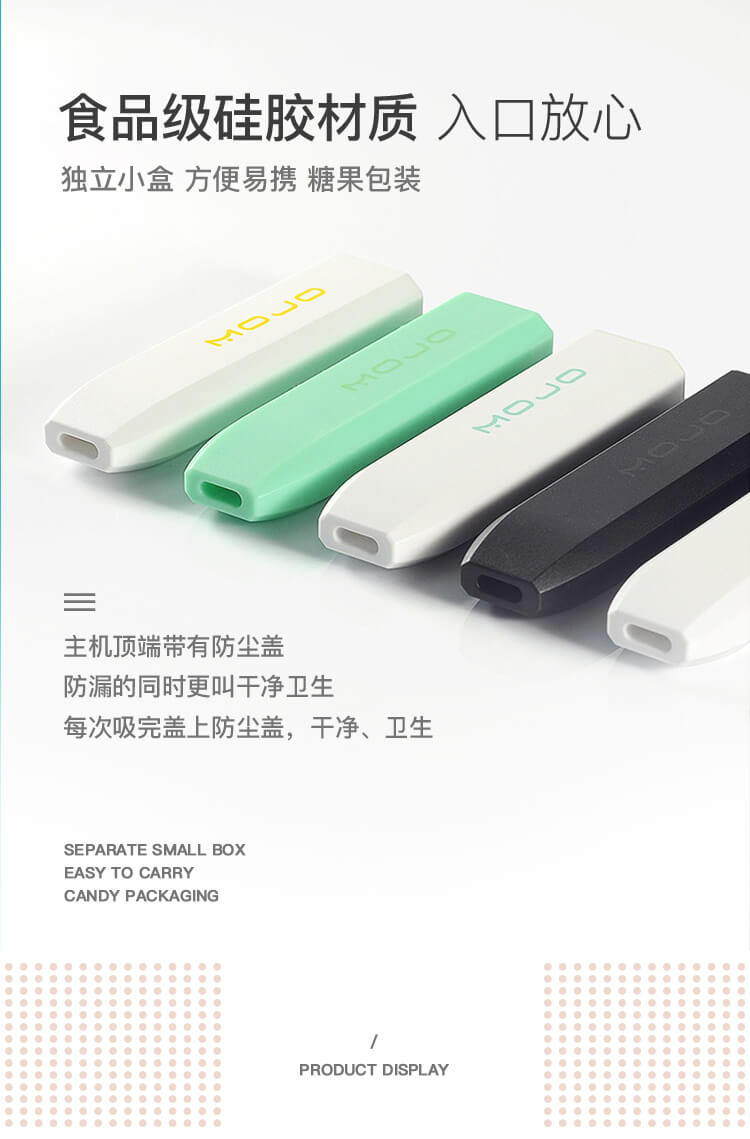
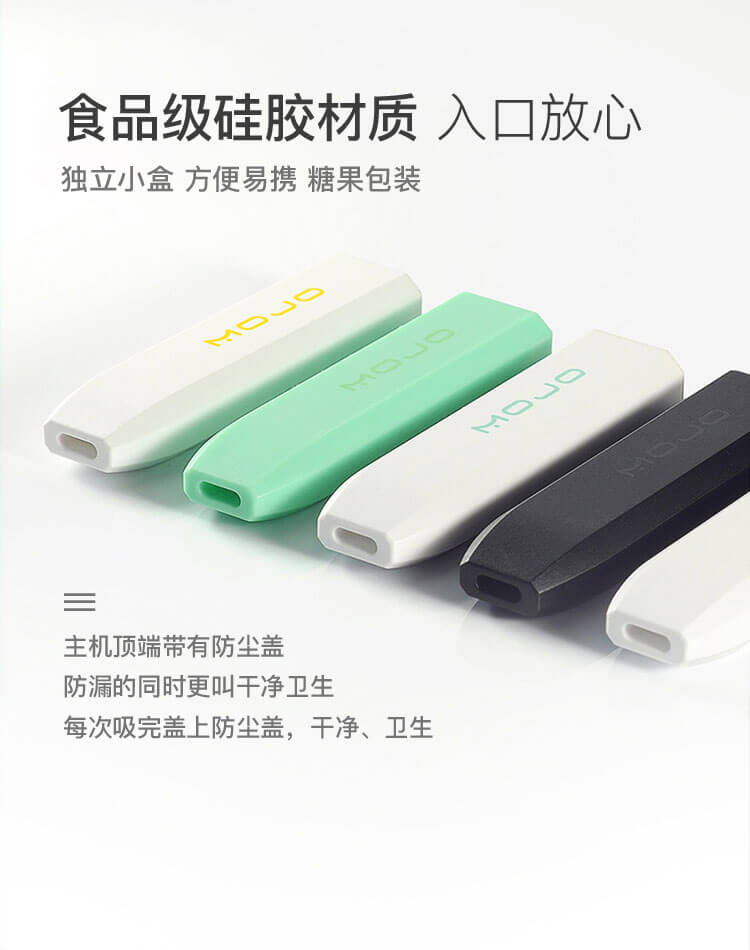
新增type  45 46 47 48 49 和 替换图片

diff --git a/common/typeConfig.js b/common/typeConfig.js
@@ -510,7 +510,7 @@ export default {
 		isSpuDesc:false,
 		isShowAgain:false,
 		diliverMsg:"有货,邮费12元"
-		
+
 	},
 	31: {
 		module: 'EditOrderFormC',
@@ -764,4 +764,99 @@ export default {
 		isTuiAMonitor:true,
 		diliverMsg:"有货,顺丰到付 运费22元"
 	},
+	//20190826 新增5条推啊监控链接
+    45: {
+        module: 'EditOrderFormMojo',
+        goodsName: "goodsMojoFree", // 商品key
+        imgs: "imgs27", // 图片key
+        lastImg:14,
+        swiper750: false, // 轮播图片是否高度是否是750upx
+        submitApi: "/activity1/ad/order/bookingGghdOrderLittleSmoke", //提交订单api
+        isEncrypted: true, // 是否对提交订单数据加密
+        isShowPayMethod: false, // 是否显示支付方式
+        buttonMsg: '0元抢购', //底部抢购提示
+        onWxPay: false, //开启微信支付
+        onAlipayPay: false, //开启支付宝支付
+        onArrivePay: true, //开始货到付款
+        bianXianMao:false,
+        isSpuDesc:false,
+        isShowAgain:false,
+        isTuiAMonitor:true,
+        diliverMsg:"有货,邮费12元"
+    },
+    46: {
+        module: 'EditOrderFormC',
+        goodsName: "goodsMTGO", // 商品key
+        imgs: "imgs31", // 图片key
+        lastImg:14,
+        swiper750: true, // 轮播图片是否高度是否是750upx
+        submitApi: "/activity1/ad/order/bookingGghdOrderLittleSmoke", //提交订单api
+        isEncrypted: true, // 是否对提交订单数据加密
+        isShowPayMethod: true, // 是否显示支付方式
+        buttonMsg: '立即抢购', //底部抢购提示
+        onWxPay: true, //开启微信支付
+        onAlipayPay: true, //开启支付宝支付
+        onArrivePay: false, //开始货到付款
+        bianXianMao:false,
+        isSpuDesc:true,
+        isTuiAMonitor:true,
+        isShowAgain:true,
+    },
+    47: {
+        module: 'EditOrderFormMojo',
+        goodsName: "goodsMojo1", // 商品key
+        imgs: "imgs41", // 图片key
+        lastImg:14,
+        swiper750: false, // 轮播图片是否高度是否是750upx
+        submitApi: "/activity1/ad/order/bookingGghdOrderLittleSmoke", //提交订单api
+        isEncrypted: true, // 是否对提交订单数据加密
+        isShowPayMethod: true, // 是否显示支付方式
+        buttonMsg: '立即抢购', //底部抢购提示
+        onWxPay: true, //开启微信支付
+        onAlipayPay: true, //开启支付宝支付
+        onArrivePay: false, //开始货到付款
+        bianXianMao:false,
+        isSpuDesc:false,
+        isTuiAMonitor:true,
+        isShowAgain:true,
+        diliverMsg:"有货,邮费12元"
+    },
+    48: {
+        module: 'EditOrderFormMojo',
+        goodsName: "goodsMojo3", // 商品key
+        imgs: "imgs42", // 图片key
+        lastImg:14,
+        swiper750: false, // 轮播图片是否高度是否是750upx
+        submitApi: "/activity1/ad/order/bookingGghdOrderLittleSmoke", //提交订单api
+        isEncrypted: true, // 是否对提交订单数据加密
+        isShowPayMethod: true, // 是否显示支付方式
+        buttonMsg: '立即抢购', //底部抢购提示
+        onWxPay: true, //开启微信支付
+        onAlipayPay: true, //开启支付宝支付
+        onArrivePay: false, //开始货到付款
+        bianXianMao:false,
+        isSpuDesc:false,
+        isShowAgain:true,
+        isTuiAMonitor:true,
+        diliverMsg:"有货,邮费12元"
+    },
+    49: {
+        module: 'EditOrderFormMojo',
+        goodsName: "goodsMojo9", // 商品key
+        imgs: "imgs43", // 图片key
+        lastImg:14,
+        swiper750: false, // 轮播图片是否高度是否是750upx
+        submitApi: "/activity1/ad/order/bookingGghdOrderLittleSmoke", //提交订单api
+        isEncrypted: true, // 是否对提交订单数据加密
+        isShowPayMethod: true, // 是否显示支付方式
+        buttonMsg: '立即抢购', //底部抢购提示
+        onWxPay: true, //开启微信支付
+        onAlipayPay: true, //开启支付宝支付
+        onArrivePay: false, //开始货到付款
+        bianXianMao:false,
+        isSpuDesc:false,
+        isShowAgain:true,
+        isTuiAMonitor:true,
+        diliverMsg:""
+    },
 }

diff --git a/pages/index/imgs.js b/pages/index/imgs.js
@@ -1320,7 +1320,7 @@ export default {
 	        {
 	            url: '../../static/type/23/6.jpg',
 	            width: 750,
-	            height: 1139,
+	            height: 950,
 	            isLoaded: false
 	        },
 	        {
@@ -1365,7 +1365,7 @@ export default {
             {
                 url: '../../static/type/23/6.jpg',
                 width: 750,
-                height: 1139,
+                height: 950,
                 isLoaded: false
             },
             {
@@ -1410,7 +1410,7 @@ export default {
             {
                 url: '../../static/type/23/6.jpg',
                 width: 750,
-                height: 1139,
+                height: 950,
                 isLoaded: false
             },
             {
@@ -1455,7 +1455,7 @@ export default {
             {
                 url: '../../static/type/23/6.jpg',
                 width: 750,
-                height: 1139,
+                height: 950,
                 isLoaded: false
             },
             {
@@ -1500,7 +1500,7 @@ export default {
             {
                 url: '../../static/type/23/6.jpg',
                 width: 750,
-                height: 1139,
+                height: 950,
                 isLoaded: false
             },
             {
@@ -1628,7 +1628,7 @@ export default {
 	        {
 	            url: '../../static/type/23/6.jpg',
 	            width: 750,
-	            height: 1139,
+	            height: 950,
 	            isLoaded: false
 	        },
 	        {
@@ -1673,7 +1673,7 @@ export default {
 	        {
 	            url: '../../static/type/23/6.jpg',
 	            width: 750,
-	            height: 1139,
+	            height: 950,
 	            isLoaded: false
 	        },
 	        {
@@ -1924,7 +1924,7 @@ export default {
 			{
 				url: '../../static/type/23/6.jpg',
 				width: 750,
-				height: 1139,
+				height: 950,
 				isLoaded: false
 			},
 			{
@@ -1969,7 +1969,7 @@ export default {
 			{
 				url: '../../static/type/23/6.jpg',
 				width: 750,
-				height: 1139,
+				height: 950,
 				isLoaded: false
 			},
 			{
@@ -2014,7 +2014,7 @@ export default {
 			{
 				url: '../../static/type/23/6.jpg',
 				width: 750,
-				height: 1139,
+				height: 950,
 				isLoaded: false
 			},
 			{
